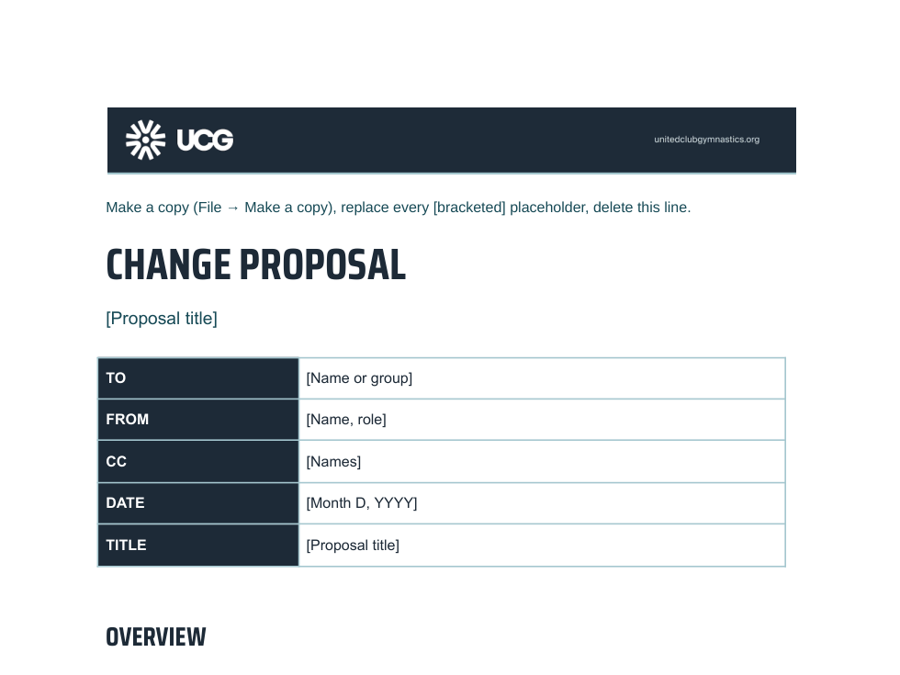
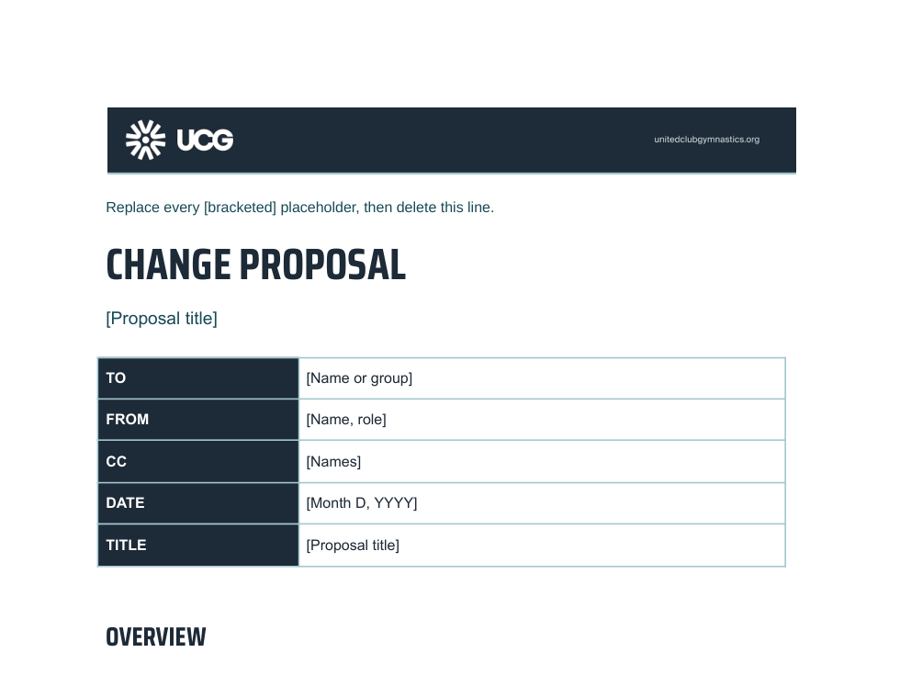
Point people at the template gallery instead of Make a copy

Changed region(s): [[0.1244, 0.28, 0.7778, 0.3422]]

diff --git a/sheets/index.html b/sheets/index.html
@@ -56,11 +56,11 @@
 <section class="doc-section" id="sec-intro">
 <div class="prose">
 <p>Sheets are working tools first. Brand them lightly so they look like UCG and stay easy to read.</p>
-<p><strong>Start from the <a href="https://docs.google.com/spreadsheets/d/138BylbdttmkkCohApng-HlhUDbECz8rtueqv_Tp30x0/copy">UCG Sheets template</a></strong> (the link makes your own copy; UCG Google accounts only). It has the UCG theme (Arial, brand colors), a frozen Navy header row, banded rows, Status and Discipline dropdowns that color themselves, a totals row and an example chart. Google doesn't let an organization change what a new <em>blank</em> sheet looks like, so copying the template is the way to get these defaults.</p>
+<p><strong>Start from the <a href="https://docs.google.com/spreadsheets/d/138BylbdttmkkCohApng-HlhUDbECz8rtueqv_Tp30x0/copy">UCG Sheets template</a></strong> (in the Google Sheets <strong>Template gallery</strong> under United Club Gymnastics, or the link opens your own copy; UCG Google accounts only). It has the UCG theme (Arial, brand colors), a frozen Navy header row, banded rows, Status and Discipline dropdowns that color themselves, a totals row and an example chart. Google doesn't let an organization change what a new <em>blank</em> sheet looks like, so starting from the template is the way to get these defaults.</p>
 </div>
 <div class="vis"><p class="vis-title">The template</p><div class="grid" style="--min:260px;max-width:440px"><div class="card template-card"><a class="template-preview" href="https://docs.google.com/spreadsheets/d/138BylbdttmkkCohApng-HlhUDbECz8rtueqv_Tp30x0/edit"><img alt="Preview of the UCG Sheets Template" loading="lazy" src="../site/examples/templates/sheets.png"/></a>
 <h3>UCG Sheets Template</h3><p class="small">UCG theme, frozen header, banded rows, status colors, dropdowns and a chart.</p>
-<div class="btn-row"><a class="btn btn--sm" href="https://docs.google.com/spreadsheets/d/138BylbdttmkkCohApng-HlhUDbECz8rtueqv_Tp30x0/copy">Make a copy →</a><a class="btn btn--sm btn--ghost" href="https://docs.google.com/spreadsheets/d/138BylbdttmkkCohApng-HlhUDbECz8rtueqv_Tp30x0/edit">Preview</a></div></div></div><p class="vis-note">The links work for anyone signed in with a UCG Google account. “Make a copy” puts your own editable copy in your Drive; the templates themselves stay untouched.</p></div><div class="vis"><p class="vis-title">How to use it</p><ol class="steps"><li>Click <b>Make a copy</b> (or File → Make a copy) and rename the file.</li><li>Rename the tab and the column headers. Keep the header row frozen.</li><li>Type into the banded rows; extend the banding with Format → Alternating colors if you add rows.</li><li>Pick Status and Discipline from the dropdowns. The words drive the colors.</li><li>Charts and new cells pick up the UCG theme (Format → Theme) automatically.</li></ol></div><div class="vis"><p class="vis-title">What a UCG sheet looks like</p><div class="table-wrap" style="background:#FFFFFF"><table class="sheet"><tr><th class="ch"> </th><th class="ch">A</th><th class="ch">B</th><th class="ch">C</th><th class="ch">D</th><th class="ch">E</th></tr>
+<div class="btn-row"><a class="btn btn--sm" href="https://docs.google.com/spreadsheets/d/138BylbdttmkkCohApng-HlhUDbECz8rtueqv_Tp30x0/copy">Use template →</a><a class="btn btn--sm btn--ghost" href="https://docs.google.com/spreadsheets/d/138BylbdttmkkCohApng-HlhUDbECz8rtueqv_Tp30x0/edit">Preview</a></div></div></div><p class="vis-note">These are also in the Template gallery in Google Docs, Sheets and Slides, under United Club Gymnastics. “Use template” gives you your own copy (UCG Google accounts only); the templates themselves stay untouched.</p></div><div class="vis"><p class="vis-title">How to use it</p><ol class="steps"><li>In Google Sheets, click <b>Template gallery → United Club Gymnastics → UCG Sheets Template</b> (or <b>Use template</b> above) and rename the file.</li><li>Rename the tab and the column headers. Keep the header row frozen.</li><li>Type into the banded rows; extend the banding with Format → Alternating colors if you add rows.</li><li>Pick Status and Discipline from the dropdowns. The words drive the colors.</li><li>Charts and new cells pick up the UCG theme (Format → Theme) automatically.</li></ol></div><div class="vis"><p class="vis-title">What a UCG sheet looks like</p><div class="table-wrap" style="background:#FFFFFF"><table class="sheet"><tr><th class="ch"> </th><th class="ch">A</th><th class="ch">B</th><th class="ch">C</th><th class="ch">D</th><th class="ch">E</th></tr>
 <tr><td class="rh">1</td><td colspan="5" style="font-family:'Saira Condensed','Arial Narrow',Arial;font-weight:700;font-size:20px;text-transform:uppercase;color:#1E2B38;border-color:transparent">Nationals registrations</td></tr>
 <tr><td class="rh">2</td><th style="background:#1E2B38;color:#FFFFFF">Club</th><th style="background:#1E2B38;color:#FFFFFF">Discipline</th><th style="background:#1E2B38;color:#FFFFFF;text-align:right">Athletes</th><th style="background:#1E2B38;color:#FFFFFF">Status</th><th style="background:#1E2B38;color:#FFFFFF;text-align:right">Fees</th></tr>
 <tr><td class="rh">3</td><td style="background:#FFFFFF;color:#1E2B38">Example State</td><td style="background:#ADBAE9;color:#1E2B38;font-weight:700;text-align:center">WAG</td><td style="background:#FFFFFF;color:#1E2B38;text-align:right">24</td><td style="background:#DBEBEE;color:#184B56;font-weight:700">Registered</td><td style="background:#FFFFFF;color:#1E2B38;text-align:right">$1,320.00</td></tr><tr><td class="rh">4</td><td style="background:#DBEBEE;color:#1E2B38">River City Gym</td><td style="background:#A5C8CF;color:#1E2B38;font-weight:700;text-align:center">MAG</td><td style="background:#DBEBEE;color:#1E2B38;text-align:right">12</td><td style="background:#F6C328;color:#1E2B38;font-weight:700">Pending</td><td style="background:#DBEBEE;color:#1E2B38;text-align:right">$660.00</td></tr><tr><td class="rh">5</td><td style="background:#FFFFFF;color:#1E2B38">Northside Flyers</td><td style="background:#F6C328;color:#1E2B38;font-weight:700;text-align:center">T&amp;T</td><td style="background:#FFFFFF;color:#1E2B38;text-align:right">9</td><td style="background:#F4694A;color:#1E2B38;font-weight:700">Missing forms</td><td style="background:#FFFFFF;color:#1E2B38;text-align:right">$495.00</td></tr><tr><td class="rh">6</td><td style="background:#DBEBEE;color:#1E2B38">Lakeview Club</td><td style="background:#ADBAE9;color:#1E2B38;font-weight:700;text-align:center">WAG</td><td style="background:#DBEBEE;color:#1E2B38;text-align:right">17</td><td style="background:#DBEBEE;color:#184B56;font-weight:700">Registered</td><td style="background:#DBEBEE;color:#1E2B38;text-align:right">$935.00</td></tr><tr><td class="rh">7</td><td style="background:#A5C8CF;color:#1E2B38;font-weight:700">Total</td><td style="background:#A5C8CF"></td><td style="background:#A5C8CF;color:#1E2B38;font-weight:700;text-align:right">62</td><td style="background:#A5C8CF"></td><td style="background:#A5C8CF;color:#1E2B38;font-weight:700;text-align:right">$3,410.00</td></tr></table></div><p class="vis-note">Example data.</p></div><div class="vis"><p class="vis-title">Status colors</p><div class="grid" style="--min:190px"><div style="background:#DBEBEE;color:#184B56;border-radius:8px;padding:12px 14px;font-weight:700;font-family:Arial">Good / done / on track</div><div style="background:#F6C328;color:#1E2B38;border-radius:8px;padding:12px 14px;font-weight:700;font-family:Arial">Attention / pending</div><div style="background:#F4694A;color:#1E2B38;border-radius:8px;padding:12px 14px;font-weight:700;font-family:Arial">Urgent / error / blocked</div><div style="background:#ADBAE9;color:#1E2B38;border-radius:8px;padding:12px 14px;font-weight:700;font-family:Arial">Neutral / info</div></div></div><div class="vis"><p class="vis-title">Charts</p><div class="compare"><div class="card" style="padding:10px"><svg aria-label="Example bar chart of athletes by discipline" role="img" style="width:100%;height:auto;background:#FFFFFF;border-radius:16px" viewbox="0 0 520 300"><line stroke="#DBEBEE" x1="56" x2="510" y1="250" y2="250"></line><text fill="#1E2B38" font-family="Arial" font-size="12" text-anchor="end" x="46" y="254">0</text><line stroke="#DBEBEE" x1="56" x2="510" y1="186" y2="186"></line><text fill="#1E2B38" font-family="Arial" font-size="12" text-anchor="end" x="46" y="190">10</text><line stroke="#DBEBEE" x1="56" x2="510" y1="122" y2="122"></line><text fill="#1E2B38" font-family="Arial" font-size="12" text-anchor="end" x="46" y="126">20</text><line stroke="#DBEBEE" x1="56" x2="510" y1="58" y2="58"></line><text fill="#1E2B38" font-family="Arial" font-size="12" text-anchor="end" x="46" y="62">30</text><rect fill="#1E2B38" height="153.6" rx="3" width="32" x="76" y="96.4"></rect><rect fill="#F4694A" height="76.8" rx="3" width="32" x="114" y="173.2"></rect><rect fill="#184B56" height="57.6" rx="3" width="32" x="152" y="192.4"></rect><rect fill="#1E2B38" height="192.0" rx="3" width="32" x="226" y="58.0"></rect><rect fill="#F4694A" height="96.0" rx="3" width="32" x="264" y="154.0"></rect><rect fill="#184B56" height="70.4" rx="3" width="32" x="302" y="179.6"></rect><rect fill="#1E2B38" height="172.8" rx="3" width="32" x="376" y="77.2"></rect><rect fill="#F4694A" height="115.2" rx="3" width="32" x="414" y="134.8"></rect><rect fill="#184B56" height="89.6" rx="3" width="32" x="452" y="160.4"></rect><text fill="#1E2B38" font-family="Arial" font-size="14" text-anchor="middle" x="130" y="272">2025</text><text fill="#1E2B38" font-family="Arial" font-size="14" text-anchor="middle" x="280" y="272">2026</text><text fill="#1E2B38" font-family="Arial" font-size="14" text-anchor="middle" x="430" y="272">2027</text><rect fill="#1E2B38" height="14" rx="3" width="14" x="56" y="14"></rect><text fill="#1E2B38" font-family="Arial" font-size="13" x="76" y="26">WAG</text><rect fill="#F4694A" height="14" rx="3" width="14" x="176" y="14"></rect><text fill="#1E2B38" font-family="Arial" font-size="13" x="196" y="26">MAG</text><rect fill="#184B56" height="14" rx="3" width="14" x="296" y="14"></rect><text fill="#1E2B38" font-family="Arial" font-size="13" x="316" y="26">T&amp;T</text></svg><p class="mock-label">On white: Navy, Red Orange, Dark Blue Green.</p></div><div class="card" style="padding:10px"><svg aria-label="Example bar chart of athletes by discipline" role="img" style="width:100%;height:auto;background:#1E2B38;border-radius:16px" viewbox="0 0 520 300"><line stroke="#184B56" x1="56" x2="510" y1="250" y2="250"></line><text fill="#DBEBEE" font-family="Arial" font-size="12" text-anchor="end" x="46" y="254">0</text><line stroke="#184B56" x1="56" x2="510" y1="186" y2="186"></line><text fill="#DBEBEE" font-family="Arial" font-size="12" text-anchor="end" x="46" y="190">10</text><line stroke="#184B56" x1="56" x2="510" y1="122" y2="122"></line><text fill="#DBEBEE" font-family="Arial" font-size="12" text-anchor="end" x="46" y="126">20</text><line stroke="#184B56" x1="56" x2="510" y1="58" y2="58"></line><text fill="#DBEBEE" font-family="Arial" font-size="12" text-anchor="end" x="46" y="62">30</text><rect fill="#A5C8CF" height="153.6" rx="3" width="32" x="76" y="96.4"></rect><rect fill="#F6C328" height="76.8" rx="3" width="32" x="114" y="173.2"></rect><rect fill="#ADBAE9" height="57.6" rx="3" width="32" x="152" y="192.4"></rect><rect fill="#A5C8CF" height="192.0" rx="3" width="32" x="226" y="58.0"></rect><rect fill="#F6C328" height="96.0" rx="3" width="32" x="264" y="154.0"></rect><rect fill="#ADBAE9" height="70.4" rx="3" width="32" x="302" y="179.6"></rect><rect fill="#A5C8CF" height="172.8" rx="3" width="32" x="376" y="77.2"></rect><rect fill="#F6C328" height="115.2" rx="3" width="32" x="414" y="134.8"></rect><rect fill="#ADBAE9" height="89.6" rx="3" width="32" x="452" y="160.4"></rect><text fill="#FFFFFF" font-family="Arial" font-size="14" text-anchor="middle" x="130" y="272">2025</text><text fill="#FFFFFF" font-family="Arial" font-size="14" text-anchor="middle" x="280" y="272">2026</text><text fill="#FFFFFF" font-family="Arial" font-size="14" text-anchor="middle" x="430" y="272">2027</text><rect fill="#A5C8CF" height="14" rx="3" width="14" x="56" y="14"></rect><text fill="#FFFFFF" font-family="Arial" font-size="13" x="76" y="26">WAG</text><rect fill="#F6C328" height="14" rx="3" width="14" x="176" y="14"></rect><text fill="#FFFFFF" font-family="Arial" font-size="13" x="196" y="26">MAG</text><rect fill="#ADBAE9" height="14" rx="3" width="14" x="296" y="14"></rect><text fill="#FFFFFF" font-family="Arial" font-size="13" x="316" y="26">T&amp;T</text></svg><p class="mock-label">On Navy: Blue Green, Golden Yellow, Purple.</p></div></div><p class="vis-note">Example data.</p></div>

diff --git a/docs/index.html b/docs/index.html
@@ -57,13 +57,13 @@
 <div class="prose"><p>Policies and official documents are "core system" work: clarity beats flair. Keep them calm, consistent and easy to scan.</p></div>
 <div class="vis"><p class="vis-title">Templates</p><div class="grid" style="--min:340px"><div class="card template-card"><a class="template-preview" href="https://docs.google.com/document/d/1oC-g9xVgEFwP1pCBPfpUfnWDGawBIE3UF858RqZhGG8/edit"><img alt="Preview of the UCG Policy Template" loading="lazy" src="../site/examples/templates/policy.png"/></a>
 <h3>UCG Policy Template</h3><p class="small">Purpose, scope, definitions, numbered sections, contacts and version history.</p>
-<div class="btn-row"><a class="btn btn--sm" href="https://docs.google.com/document/d/1oC-g9xVgEFwP1pCBPfpUfnWDGawBIE3UF858RqZhGG8/copy">Make a copy →</a><a class="btn btn--sm btn--ghost" href="https://docs.google.com/document/d/1oC-g9xVgEFwP1pCBPfpUfnWDGawBIE3UF858RqZhGG8/edit">Preview</a></div></div><div class="card template-card"><a class="template-preview" href="https://docs.google.com/document/d/11yKkZv8L44MRprWYa-Ppe_IXf-Wu4KcG2ku_heYfjtU/edit"><img alt="Preview of the UCG Change Proposal Template" loading="lazy" src="../site/examples/templates/change-proposal.png"/></a>
+<div class="btn-row"><a class="btn btn--sm" href="https://docs.google.com/document/d/1oC-g9xVgEFwP1pCBPfpUfnWDGawBIE3UF858RqZhGG8/copy">Use template →</a><a class="btn btn--sm btn--ghost" href="https://docs.google.com/document/d/1oC-g9xVgEFwP1pCBPfpUfnWDGawBIE3UF858RqZhGG8/edit">Preview</a></div></div><div class="card template-card"><a class="template-preview" href="https://docs.google.com/document/d/11yKkZv8L44MRprWYa-Ppe_IXf-Wu4KcG2ku_heYfjtU/edit"><img alt="Preview of the UCG Change Proposal Template" loading="lazy" src="../site/examples/templates/change-proposal.png"/></a>
 <h3>UCG Change Proposal Template</h3><p class="small">Propose a change and plan how it rolls out and who hears about it.</p>
-<div class="btn-row"><a class="btn btn--sm" href="https://docs.google.com/document/d/11yKkZv8L44MRprWYa-Ppe_IXf-Wu4KcG2ku_heYfjtU/copy">Make a copy →</a><a class="btn btn--sm btn--ghost" href="https://docs.google.com/document/d/11yKkZv8L44MRprWYa-Ppe_IXf-Wu4KcG2ku_heYfjtU/edit">Preview</a></div></div><div class="card template-card"><a class="template-preview" href="https://docs.google.com/document/d/1TY-l1Mkk5kIwuBvkkxQU3mpWvLMLzPEKL-nCmmHlfh8/edit"><img alt="Preview of the UCG Meeting Minutes Template" loading="lazy" src="../site/examples/templates/minutes.png"/></a>
+<div class="btn-row"><a class="btn btn--sm" href="https://docs.google.com/document/d/11yKkZv8L44MRprWYa-Ppe_IXf-Wu4KcG2ku_heYfjtU/copy">Use template →</a><a class="btn btn--sm btn--ghost" href="https://docs.google.com/document/d/11yKkZv8L44MRprWYa-Ppe_IXf-Wu4KcG2ku_heYfjtU/edit">Preview</a></div></div><div class="card template-card"><a class="template-preview" href="https://docs.google.com/document/d/1TY-l1Mkk5kIwuBvkkxQU3mpWvLMLzPEKL-nCmmHlfh8/edit"><img alt="Preview of the UCG Meeting Minutes Template" loading="lazy" src="../site/examples/templates/minutes.png"/></a>
 <h3>UCG Meeting Minutes Template</h3><p class="small">Attendance, agenda, decisions and action items, plus minute-taking guidelines.</p>
-<div class="btn-row"><a class="btn btn--sm" href="https://docs.google.com/document/d/1TY-l1Mkk5kIwuBvkkxQU3mpWvLMLzPEKL-nCmmHlfh8/copy">Make a copy →</a><a class="btn btn--sm btn--ghost" href="https://docs.google.com/document/d/1TY-l1Mkk5kIwuBvkkxQU3mpWvLMLzPEKL-nCmmHlfh8/edit">Preview</a></div></div><div class="card template-card"><a class="template-preview" href="https://docs.google.com/document/d/13eIZoEsXOzOZCphU0q-_o5OzgLqNAaC8tsz1A0JpJu4/edit"><img alt="Preview of the UCG Email Draft Template" loading="lazy" src="../site/examples/templates/email-draft.png"/></a>
+<div class="btn-row"><a class="btn btn--sm" href="https://docs.google.com/document/d/1TY-l1Mkk5kIwuBvkkxQU3mpWvLMLzPEKL-nCmmHlfh8/copy">Use template →</a><a class="btn btn--sm btn--ghost" href="https://docs.google.com/document/d/1TY-l1Mkk5kIwuBvkkxQU3mpWvLMLzPEKL-nCmmHlfh8/edit">Preview</a></div></div><div class="card template-card"><a class="template-preview" href="https://docs.google.com/document/d/13eIZoEsXOzOZCphU0q-_o5OzgLqNAaC8tsz1A0JpJu4/edit"><img alt="Preview of the UCG Email Draft Template" loading="lazy" src="../site/examples/templates/email-draft.png"/></a>
 <h3>UCG Email Draft Template</h3><p class="small">Draft an announcement email block by block before it's built in the HTML template.</p>
-<div class="btn-row"><a class="btn btn--sm" href="https://docs.google.com/document/d/13eIZoEsXOzOZCphU0q-_o5OzgLqNAaC8tsz1A0JpJu4/copy">Make a copy →</a><a class="btn btn--sm btn--ghost" href="https://docs.google.com/document/d/13eIZoEsXOzOZCphU0q-_o5OzgLqNAaC8tsz1A0JpJu4/edit">Preview</a></div></div></div><p class="vis-note">The links work for anyone signed in with a UCG Google account. “Make a copy” puts your own editable copy in your Drive; the templates themselves stay untouched.</p></div><div class="vis"><p class="vis-title">How to use them</p><ol class="steps"><li>Open the template you need and click <b>Make a copy</b> (or File → Make a copy). Save it in your team's folder.</li><li>Replace every <b>[bracketed]</b> placeholder and delete the grey guidance lines.</li><li>Use the built-in styles (Title, Heading 1, Heading 2, Normal text) from the style menu instead of formatting by hand, so headings stay on brand.</li><li>Delete any section you don't need rather than leaving it empty.</li></ol></div>
+<div class="btn-row"><a class="btn btn--sm" href="https://docs.google.com/document/d/13eIZoEsXOzOZCphU0q-_o5OzgLqNAaC8tsz1A0JpJu4/copy">Use template →</a><a class="btn btn--sm btn--ghost" href="https://docs.google.com/document/d/13eIZoEsXOzOZCphU0q-_o5OzgLqNAaC8tsz1A0JpJu4/edit">Preview</a></div></div></div><p class="vis-note">These are also in the Template gallery in Google Docs, Sheets and Slides, under United Club Gymnastics. “Use template” gives you your own copy (UCG Google accounts only); the templates themselves stay untouched.</p></div><div class="vis"><p class="vis-title">How to use them</p><ol class="steps"><li>In Google Docs, click <b>Template gallery → United Club Gymnastics</b> and pick the template (or click <b>Use template</b> above). Rename it and save it in your team's folder.</li><li>Replace every <b>[bracketed]</b> placeholder and delete the grey guidance lines.</li><li>Use the built-in styles (Title, Heading 1, Heading 2, Normal text) from the style menu instead of formatting by hand, so headings stay on brand.</li><li>Delete any section you don't need rather than leaving it empty.</li></ol></div>
 </section>
     <aside class="agent-note">
       <p class="eyebrow">For AI agents</p>

diff --git a/slides/index.html b/slides/index.html
@@ -55,12 +55,12 @@
   <main id="main" class="content">
 <section class="doc-section" id="sec-intro">
 <div class="prose">
-<p><strong>Start every new deck from the <a href="https://docs.google.com/presentation/d/1aJHuTtVjkRVPzteyeOgZdMWxWDLeAFNSvdaMtY3whks/copy">UCG Slides template</a></strong> (the link makes your own copy; UCG Google accounts only). It already has the theme colors, fonts, footers and an example of every slide type below: delete the slides you don't need and duplicate the ones you do.</p>
+<p><strong>Start every new deck from the <a href="https://docs.google.com/presentation/d/1aJHuTtVjkRVPzteyeOgZdMWxWDLeAFNSvdaMtY3whks/copy">UCG Slides template</a></strong> (in the Google Slides <strong>Template gallery</strong> under United Club Gymnastics, or the link opens your own copy; UCG Google accounts only). It already has the theme colors, fonts, footers and an example of every slide type below: delete the slides you don't need and duplicate the ones you do.</p>
 <p>If you need to go well beyond the template or make a new kind of slide, use the guidance below.</p>
 </div>
 <div class="vis"><p class="vis-title">The template</p><div class="grid" style="--min:260px;max-width:440px"><div class="card template-card"><a class="template-preview" href="https://docs.google.com/presentation/d/1aJHuTtVjkRVPzteyeOgZdMWxWDLeAFNSvdaMtY3whks/edit"><img alt="Preview of the UCG Slides Template" loading="lazy" src="../site/examples/templates/slides.png"/></a>
 <h3>UCG Slides Template</h3><p class="small">Branded layouts for New slide, plus an example of every slide type: cover, agenda, cards, section break, numbers, table, sponsors, closing and a working-meeting slide.</p>
-<div class="btn-row"><a class="btn btn--sm" href="https://docs.google.com/presentation/d/1aJHuTtVjkRVPzteyeOgZdMWxWDLeAFNSvdaMtY3whks/copy">Make a copy →</a><a class="btn btn--sm btn--ghost" href="https://docs.google.com/presentation/d/1aJHuTtVjkRVPzteyeOgZdMWxWDLeAFNSvdaMtY3whks/edit">Preview</a></div></div></div><p class="vis-note">The links work for anyone signed in with a UCG Google account. “Make a copy” puts your own editable copy in your Drive; the templates themselves stay untouched.</p></div><div class="vis"><p class="vis-title">How to use it</p><ol class="steps"><li>Click <b>Make a copy</b> (or File → Make a copy) and rename the deck.</li><li>Delete the example slides you don't need. Duplicate the ones you do (right-click → Duplicate) and replace the text.</li><li>For a fresh slide, use <b>New slide</b> and pick a layout: they're already in UCG colors and fonts, with the footers in place.</li><li>Type titles in capitals (Slides can't force caps), and keep to Saira Condensed and Arial.</li><li>Swap the cover photo for one from the <a href="../photos/">photo library</a> if you like; keep the Navy overlay so the text stays readable.</li></ol></div>
+<div class="btn-row"><a class="btn btn--sm" href="https://docs.google.com/presentation/d/1aJHuTtVjkRVPzteyeOgZdMWxWDLeAFNSvdaMtY3whks/copy">Use template →</a><a class="btn btn--sm btn--ghost" href="https://docs.google.com/presentation/d/1aJHuTtVjkRVPzteyeOgZdMWxWDLeAFNSvdaMtY3whks/edit">Preview</a></div></div></div><p class="vis-note">These are also in the Template gallery in Google Docs, Sheets and Slides, under United Club Gymnastics. “Use template” gives you your own copy (UCG Google accounts only); the templates themselves stay untouched.</p></div><div class="vis"><p class="vis-title">How to use it</p><ol class="steps"><li>In Google Slides, click <b>Template gallery → United Club Gymnastics → UCG Slides Template</b> (or <b>Use template</b> above) and rename the deck.</li><li>Delete the example slides you don't need. Duplicate the ones you do (right-click → Duplicate) and replace the text.</li><li>For a fresh slide, use <b>New slide</b> and pick a layout: they're already in UCG colors and fonts, with the footers in place.</li><li>Type titles in capitals (Slides can't force caps), and keep to Saira Condensed and Arial.</li><li>Swap the cover photo for one from the <a href="../photos/">photo library</a> if you like; keep the Navy overlay so the text stays readable.</li></ol></div>
 </section>
 <section class="doc-section" id="sec-setup">
 <div class="prose"><h2 id="setup">Setup</h2>

diff --git a/tools/site_visuals.py b/tools/site_visuals.py
@@ -605,27 +605,27 @@ def template_cards(ctx, keys, title="Templates"):
         name, _, _, what = TEMPLATES[k]
         cards.append(f'''<div class="card template-card"><a href="{template_url(k, "edit")}" class="template-preview"><img src="{R}site/examples/templates/{k}.png" alt="Preview of the {E(name)}" loading="lazy"></a>
 <h3>{E(name)}</h3><p class="small">{E(what)}</p>
-<div class="btn-row"><a class="btn btn--sm" href="{template_url(k)}">Make a copy →</a><a class="btn btn--sm btn--ghost" href="{template_url(k, "edit")}">Preview</a></div></div>''')
+<div class="btn-row"><a class="btn btn--sm" href="{template_url(k)}">Use template →</a><a class="btn btn--sm btn--ghost" href="{template_url(k, "edit")}">Preview</a></div></div>''')
     layout = "--min:340px" if len(keys) % 2 == 0 else "--min:260px;max-width:440px"  # 2 x 2, or one card not stretched
     return vis(title, f'<div class="grid" style="{layout}">{"".join(cards)}</div>',
-               "The links work for anyone signed in with a UCG Google account. “Make a copy” puts your own editable copy in your Drive; the templates themselves stay untouched.")
+               "These are also in the Template gallery in Google Docs, Sheets and Slides, under United Club Gymnastics. “Use template” gives you your own copy (UCG Google accounts only); the templates themselves stay untouched.")
 
 
 DOC_STEPS = [
-    "Open the template you need and click <b>Make a copy</b> (or File → Make a copy). Save it in your team's folder.",
+    "In Google Docs, click <b>Template gallery → United Club Gymnastics</b> and pick the template (or click <b>Use template</b> above). Rename it and save it in your team's folder.",
     "Replace every <b>[bracketed]</b> placeholder and delete the grey guidance lines.",
     "Use the built-in styles (Title, Heading 1, Heading 2, Normal text) from the style menu instead of formatting by hand, so headings stay on brand.",
     "Delete any section you don't need rather than leaving it empty.",
 ]
 SLIDE_STEPS = [
-    "Click <b>Make a copy</b> (or File → Make a copy) and rename the deck.",
+    "In Google Slides, click <b>Template gallery → United Club Gymnastics → UCG Slides Template</b> (or <b>Use template</b> above) and rename the deck.",
     "Delete the example slides you don't need. Duplicate the ones you do (right-click → Duplicate) and replace the text.",
     "For a fresh slide, use <b>New slide</b> and pick a layout: they're already in UCG colors and fonts, with the footers in place.",
     "Type titles in capitals (Slides can't force caps), and keep to Saira Condensed and Arial.",
     "Swap the cover photo for one from the <a href=\"../photos/\">photo library</a> if you like; keep the Navy overlay so the text stays readable.",
 ]
 SHEET_STEPS = [
-    "Click <b>Make a copy</b> (or File → Make a copy) and rename the file.",
+    "In Google Sheets, click <b>Template gallery → United Club Gymnastics → UCG Sheets Template</b> (or <b>Use template</b> above) and rename the file.",
     "Rename the tab and the column headers. Keep the header row frozen.",
     "Type into the banded rows; extend the banding with Format → Alternating colors if you add rows.",
     "Pick Status and Discipline from the dropdowns. The words drive the colors.",

diff --git a/references/sheets.md b/references/sheets.md
@@ -2,7 +2,7 @@
 
 Sheets are working tools first. Brand them lightly so they look like UCG and stay easy to read.
 
-**Start from the [UCG Sheets template](https://docs.google.com/spreadsheets/d/138BylbdttmkkCohApng-HlhUDbECz8rtueqv_Tp30x0/copy)** (the link makes your own copy; UCG Google accounts only). It has the UCG theme (Arial, brand colors), a frozen Navy header row, banded rows, Status and Discipline dropdowns that color themselves, a totals row and an example chart. Google doesn't let an organization change what a new *blank* sheet looks like, so copying the template is the way to get these defaults.
+**Start from the [UCG Sheets template](https://docs.google.com/spreadsheets/d/138BylbdttmkkCohApng-HlhUDbECz8rtueqv_Tp30x0/copy)** (in the Google Sheets **Template gallery** under United Club Gymnastics, or the link opens your own copy; UCG Google accounts only). It has the UCG theme (Arial, brand colors), a frozen Navy header row, banded rows, Status and Discipline dropdowns that color themselves, a totals row and an example chart. Google doesn't let an organization change what a new *blank* sheet looks like, so starting from the template is the way to get these defaults.
 
 The details below are for building or fixing a sheet by hand (agents: copy the template with Drive `files.copy` on `138BylbdttmkkCohApng-HlhUDbECz8rtueqv_Tp30x0`).
 

diff --git a/references/slides.md b/references/slides.md
@@ -1,6 +1,6 @@
 # Google Slides
 
-**Start every new deck from the [UCG Slides template](https://docs.google.com/presentation/d/1aJHuTtVjkRVPzteyeOgZdMWxWDLeAFNSvdaMtY3whks/copy)** (the link makes your own copy; UCG Google accounts only). It already has the theme colors, fonts, footers and an example of every slide type below: delete the slides you don't need and duplicate the ones you do.
+**Start every new deck from the [UCG Slides template](https://docs.google.com/presentation/d/1aJHuTtVjkRVPzteyeOgZdMWxWDLeAFNSvdaMtY3whks/copy)** (in the Google Slides **Template gallery** under United Club Gymnastics, or the link opens your own copy; UCG Google accounts only). It already has the theme colors, fonts, footers and an example of every slide type below: delete the slides you don't need and duplicate the ones you do.
 
 If you need to go well beyond the template or make a new kind of slide, use the guidance below.
 

diff --git a/references/docs.md b/references/docs.md
@@ -2,7 +2,7 @@
 
 Policies and official documents are "core system" work: clarity beats flair. Keep them calm, consistent and easy to scan.
 
-**Start from a template** (each link makes your own copy; UCG Google accounts only):
+**Start from a template** (in the Google Docs **Template gallery** under United Club Gymnastics, or the link opens your own copy; UCG Google accounts only):
 
 - [Policy](https://docs.google.com/document/d/1oC-g9xVgEFwP1pCBPfpUfnWDGawBIE3UF858RqZhGG8/copy): purpose, scope, definitions, numbered sections, contacts, version history
 - [Change proposal](https://docs.google.com/document/d/11yKkZv8L44MRprWYa-Ppe_IXf-Wu4KcG2ku_heYfjtU/copy): the proposal, rollout and communication plan
